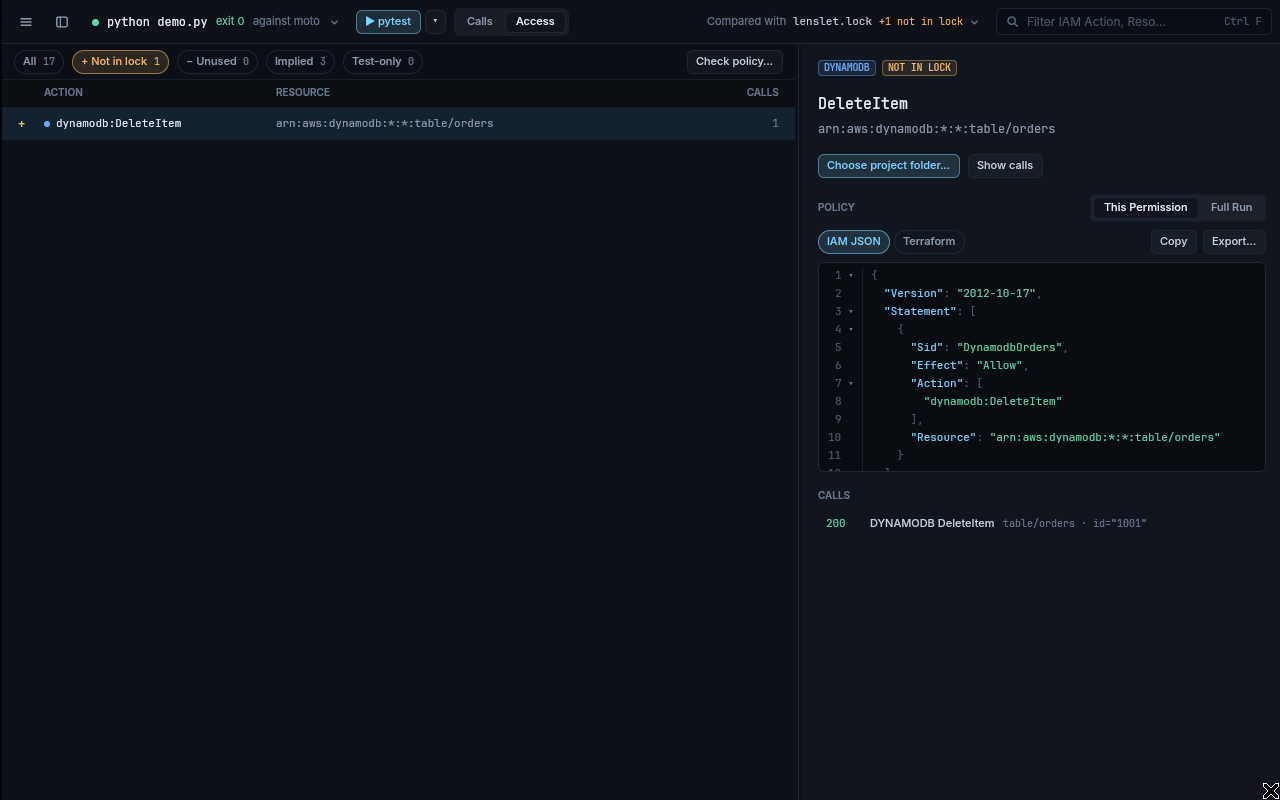
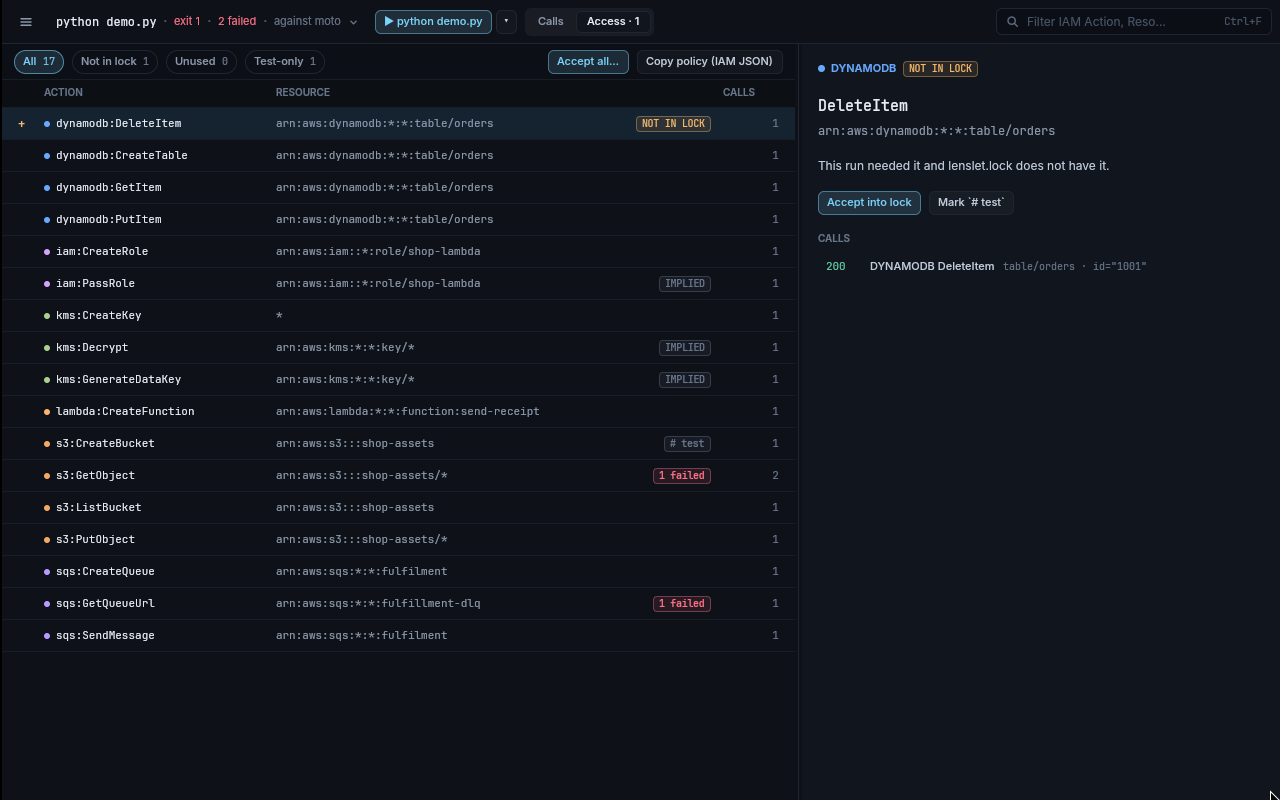
ui: polish from the screenshots; new docs/lenslet.png and docs/access.png
- Access opens on what is not in the lock until the viewer picks a row.
- Run picker rows show their command and details; "1 permission" reads
  right; Chinese search placeholders and column titles.
- Screenshots of the format-4 fixture (dark): Calls on its first failure
  with the Findings strip, and Access with the permission not in
  lenslet.lock selected.

Claude-Session: https://claude.ai/code/session_01Ua4GqEsoxPpktcUePSRyBS

diff --git a/crates/ui/src/app/header.rs b/crates/ui/src/app/header.rs
@@ -313,6 +313,7 @@ impl LensletApp {
                 card = card.child(
                     div()
                         .id(ElementId::named_usize("run", index))
+                        .w_full()
                         .flex()
                         .items_center()
                         .gap(px(8.0))
@@ -333,11 +334,25 @@ impl LensletApp {
                                 .min_w(px(0.0))
                                 .flex()
                                 .flex_col()
-                                .child(widgets::mono(ui, label).text_size(px(text::MD)))
                                 .child(
-                                    widgets::mono(ui, detail.join(" · "))
+                                    div()
+                                        .font(fonts::mono_font())
+                                        .text_size(px(text::MD))
+                                        .text_color(rgb(t.text))
+                                        .whitespace_nowrap()
+                                        .overflow_hidden()
+                                        .text_ellipsis()
+                                        .child(label),
+                                )
+                                .child(
+                                    div()
+                                        .font(fonts::mono_font())
                                         .text_size(px(text::XS))
-                                        .text_color(rgb(t.text_muted)),
+                                        .text_color(rgb(t.text_muted))
+                                        .whitespace_nowrap()
+                                        .overflow_hidden()
+                                        .text_ellipsis()
+                                        .child(detail.join(" · ")),
                                 ),
                         )
                         .child(

diff --git a/crates/ui/src/app/access.rs b/crates/ui/src/app/access.rs
@@ -353,7 +353,7 @@ impl AccessView {
             .border_b_1()
             .border_color(rgb(t.border_subtle))
             .child(div().w(px(14.0)))
-            .child(head(ui.t("ACTION", "操作")).w(px(220.0)).flex_shrink_0())
+            .child(head(ui.t("ACTION", "权限")).w(px(220.0)).flex_shrink_0())
             .child(head(ui.t("RESOURCE", "资源")).flex_1().min_w(px(0.0)))
             .child(
                 head(ui.t("CALLS", "调用"))
